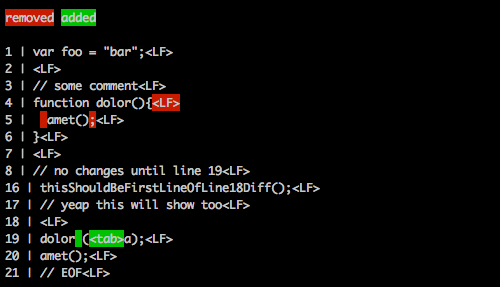
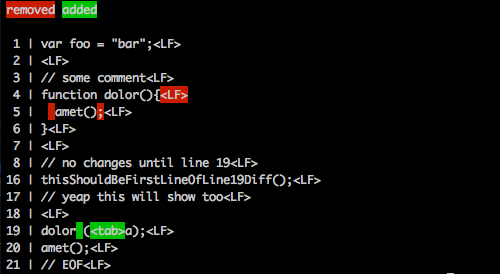
fix line number alignment

Changed region(s): [[0.0, 0.1168, 0.66, 0.9927], [0.0, 0.0, 0.21, 0.1168], [0.9, 0.9927, 0.93, 1.0]]

diff --git a/test/chars.html b/test/chars.html
@@ -1,13 +1,13 @@
 <bggreen>removed</bggreen> <bgred>added</bgred>
 
-1 | var foo = "bar";<LF>
-2 | <LF>
-3 | // some comment<LF>
-4 | function dolor(){<bggreen><LF></bggreen>
-5 |  <bggreen> </bggreen>amet()<bggreen>;</bggreen><LF>
-6 | }<LF>
-7 | <LF>
-8 | // no changes until line 19<LF>
+ 1 | var foo = "bar";<LF>
+ 2 | <LF>
+ 3 | // some comment<LF>
+ 4 | function dolor(){<bggreen><LF></bggreen>
+ 5 |  <bggreen> </bggreen>amet()<bggreen>;</bggreen><LF>
+ 6 | }<LF>
+ 7 | <LF>
+ 8 | // no changes until line 19<LF>
 16 | thisShouldBeFirstLineOfLine19Diff();<LF>
 17 | // yeap this will show too<LF>
 18 | <LF>

diff --git a/disparity.js b/disparity.js
@@ -79,7 +79,7 @@ function replaceInvisibleChars(str) {
 function rightAlign(val, nChars) {
   val = val.toString();
   var diff = nChars - val.length;
-  return diff ? (new Array(diff)).join(' ') + val : val;
+  return diff ? (new Array(diff + 1)).join(' ') + val : val;
 }
 
 function removeLinesOutOfContext(lines, context) {

diff --git a/CHANGELOG.md b/CHANGELOG.md
@@ -1,5 +1,9 @@
 # disparity changelog
 
+## v1.3.1 (2015/04/01)
+
+ - fix line number alignment.
+
 ## v1.3.0 (2015/04/01)
 
  - add support for custom colors.
